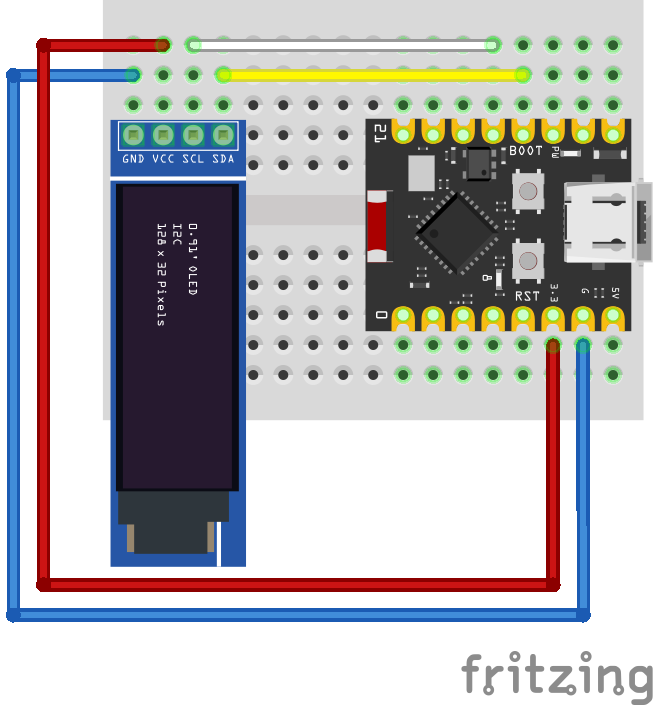
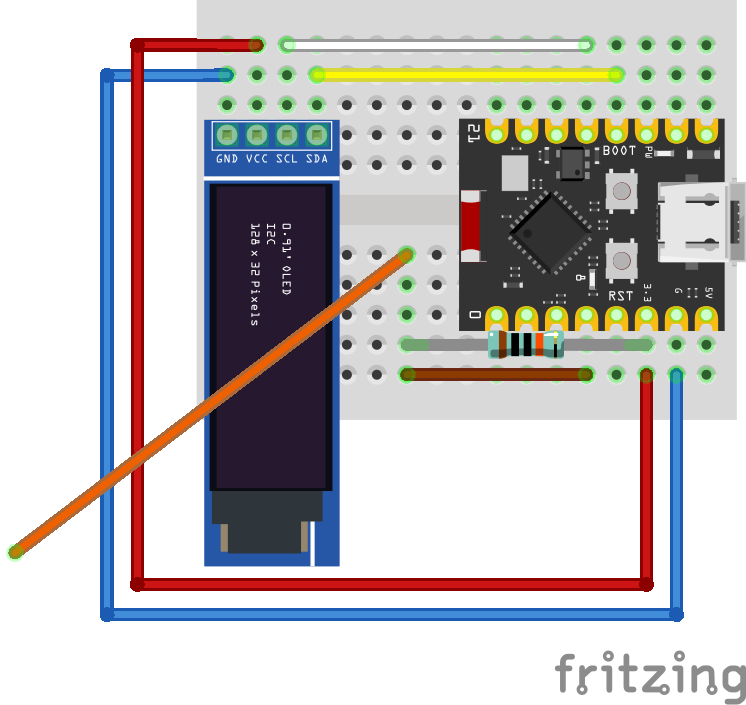
Hmm it works

diff --git a/matchbox/main.py b/matchbox/main.py
@@ -1,8 +1,43 @@
 from machine import Pin, I2C
 import ssd1306
+import time
+
 #i2c = I2C(sda=Pin(8), scl=Pin(9))
 i2c = I2C(0)
 disp = ssd1306.SSD1306_I2C(128, 32, i2c)
 disp.contrast(0)
-disp.text('Hello, World!', 0, 0, 1)
-disp.show()
+
+last_msg = ''
+def msg(s):
+    global disp, last_msg
+    if s != last_msg:
+        disp.fill(0)
+        y=0
+        for l in s.split('\n'):
+            disp.text(l, 0, y, 1)
+            y += 8
+        disp.show()
+        last_msg = s
+
+def read_cap_pin():
+    p = Pin(3, Pin.OPEN_DRAIN, value=0)
+    time.sleep_ms(5)
+    p = Pin(3, Pin.IN, Pin.PULL_DOWN)
+    t0 = time.ticks_us()
+    while not p.value():
+        t1 = time.ticks_us()
+        dt = time.ticks_diff(t1, t0)
+        if dt > 10000:
+            p = Pin(3, Pin.OUT, value=0)
+            return False
+    t1 = time.ticks_us()
+    p = Pin(3, Pin.OUT, value=0)
+    return time.ticks_diff(t1, t0)
+
+while True:
+    reading = read_cap_pin()
+    if not reading:
+        msg('')
+    else:
+        msg('dt = ' + str(reading / 1000) + ' ms')
+    time.sleep_ms(50)
